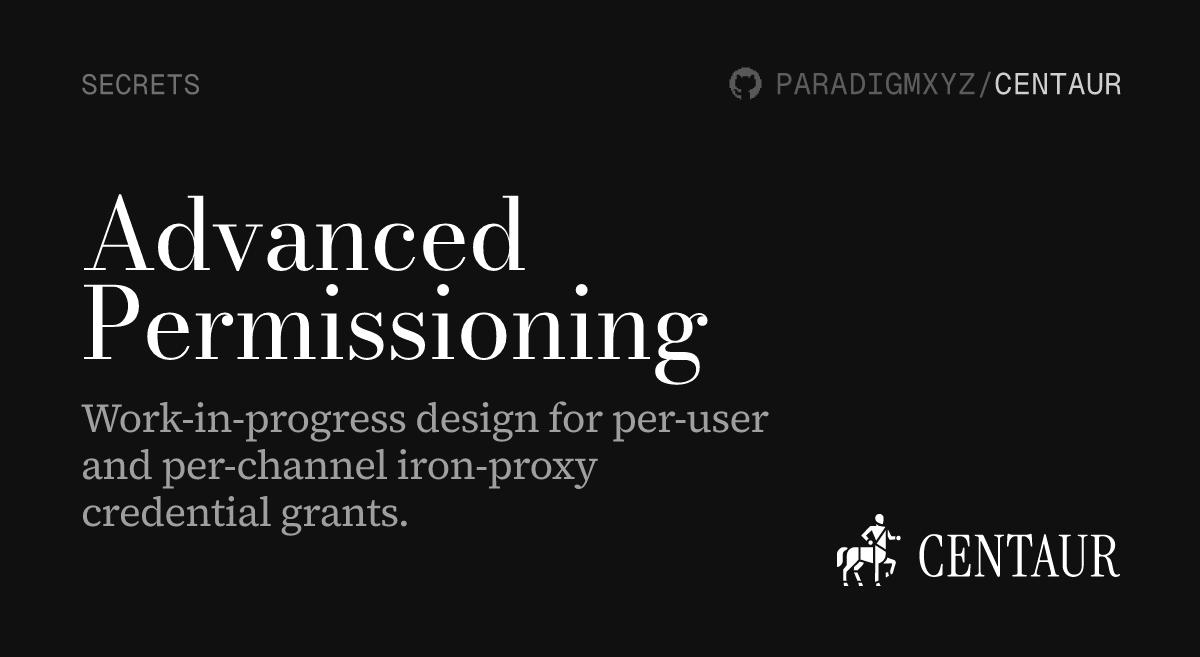
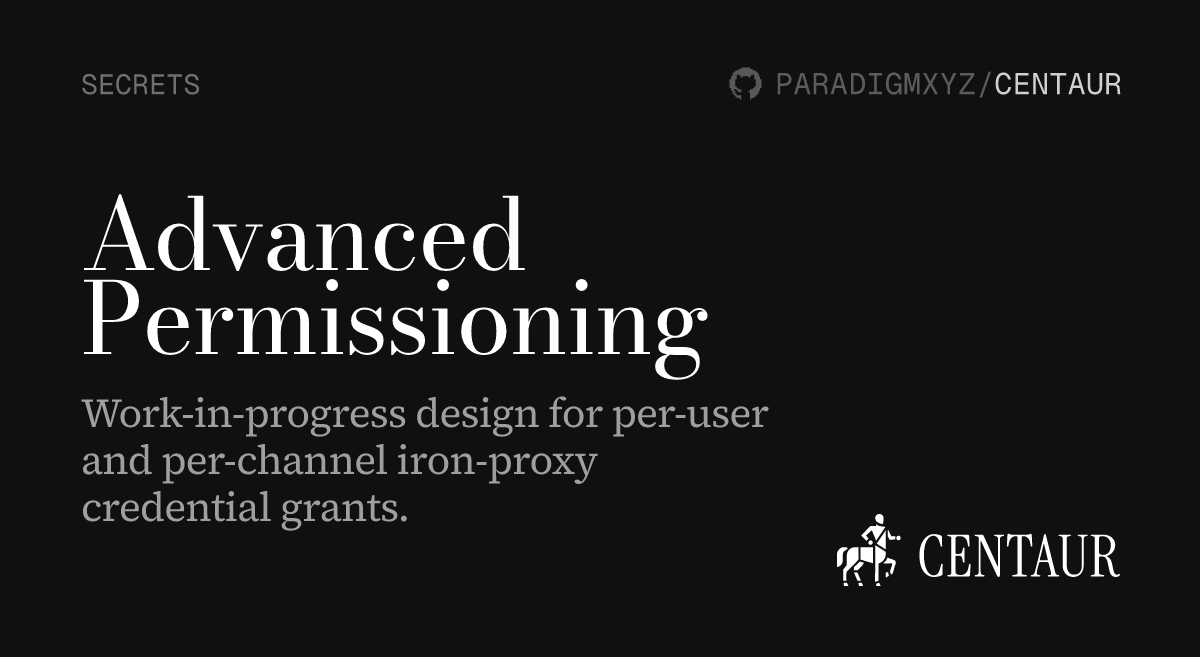
docs(og): bottom-align 5-line desc + tighten title leading 5%
- For descriptions that wrap to 5 lines (the densest case, e.g.
  /security and /what-is-centaur), anchor the last description
  baseline at y=575 — flush with the bottom edge of the centaur
  silhouette. Pulls the whole title/desc block downward so the title
  doesn't float alone near the eyebrow when there's a lot of body copy.
- TITLE_LINE_H 89 -> 84 (~5% tighter). Two-line titles now sit as a
  more cohesive block; Bodoni Moda has the side-bearings to absorb the
  negative leading without ascenders/descenders colliding.

Changed region(s): [[0.0617, 0.4262, 0.6475, 0.8219], [0.0617, 0.5175, 0.0925, 0.5479]]

diff --git a/docs/scripts/build-og.ts b/docs/scripts/build-og.ts
@@ -236,7 +236,10 @@ function wrapText(text: string, maxChars: number, maxLines: number): string[] {
 const LEFT_X = 81
 const EYEBROW_BASELINE_Y = 94.18
 const DEFAULT_TITLE_BASELINE_Y = 270
-const TITLE_LINE_H = 89
+// 5% tighter than the previous 89px so the 99px serif title sits more
+// confidently on its own as a 2-line block (Bodoni Moda is wide enough
+// to handle the negative leading without colliding).
+const TITLE_LINE_H = 84
 const DESC_LINE_H = 47
 const TITLE_TO_DESC_BASELINE_GAP = 73
 // Description text occupies the left ~67% of the canvas (x=81..~820 after
@@ -245,6 +248,11 @@ const TITLE_TO_DESC_BASELINE_GAP = 73
 // last description baseline is free to extend down to ~y=540 without
 // visually crashing into the logo.
 const DESC_BASELINE_MAX_Y = 540
+// For the worst-case 5-line description, anchor the last baseline at the
+// centaur silhouette's bottom edge (~y=586 minus ~11px descender space)
+// instead of top-packing. This pulls the whole title/desc block downward
+// so the title doesn't float lonely near the eyebrow on the densest cards.
+const DESC_BASELINE_BOTTOM_Y = 575
 
 function computeStackY(nTitle: number, nDesc: number) {
   const titleStackHeight = Math.max(0, nTitle - 1) * TITLE_LINE_H
@@ -252,9 +260,15 @@ function computeStackY(nTitle: number, nDesc: number) {
     nDesc > 0 ? TITLE_TO_DESC_BASELINE_GAP + Math.max(0, nDesc - 1) * DESC_LINE_H : 0
 
   let firstTitleBaseline = DEFAULT_TITLE_BASELINE_Y
-  const projectedLastDescBaseline = firstTitleBaseline + titleStackHeight + descStackHeight
-  if (nDesc > 0 && projectedLastDescBaseline > DESC_BASELINE_MAX_Y) {
-    firstTitleBaseline -= projectedLastDescBaseline - DESC_BASELINE_MAX_Y
+  if (nDesc === 5) {
+    // Densest case: bottom-align the last description baseline with the
+    // centaur silhouette so the title/desc group settles low on the card.
+    firstTitleBaseline = DESC_BASELINE_BOTTOM_Y - descStackHeight - titleStackHeight
+  } else {
+    const projectedLastDescBaseline = firstTitleBaseline + titleStackHeight + descStackHeight
+    if (nDesc > 0 && projectedLastDescBaseline > DESC_BASELINE_MAX_Y) {
+      firstTitleBaseline -= projectedLastDescBaseline - DESC_BASELINE_MAX_Y
+    }
   }
 
   const titleBaselines = Array.from(
